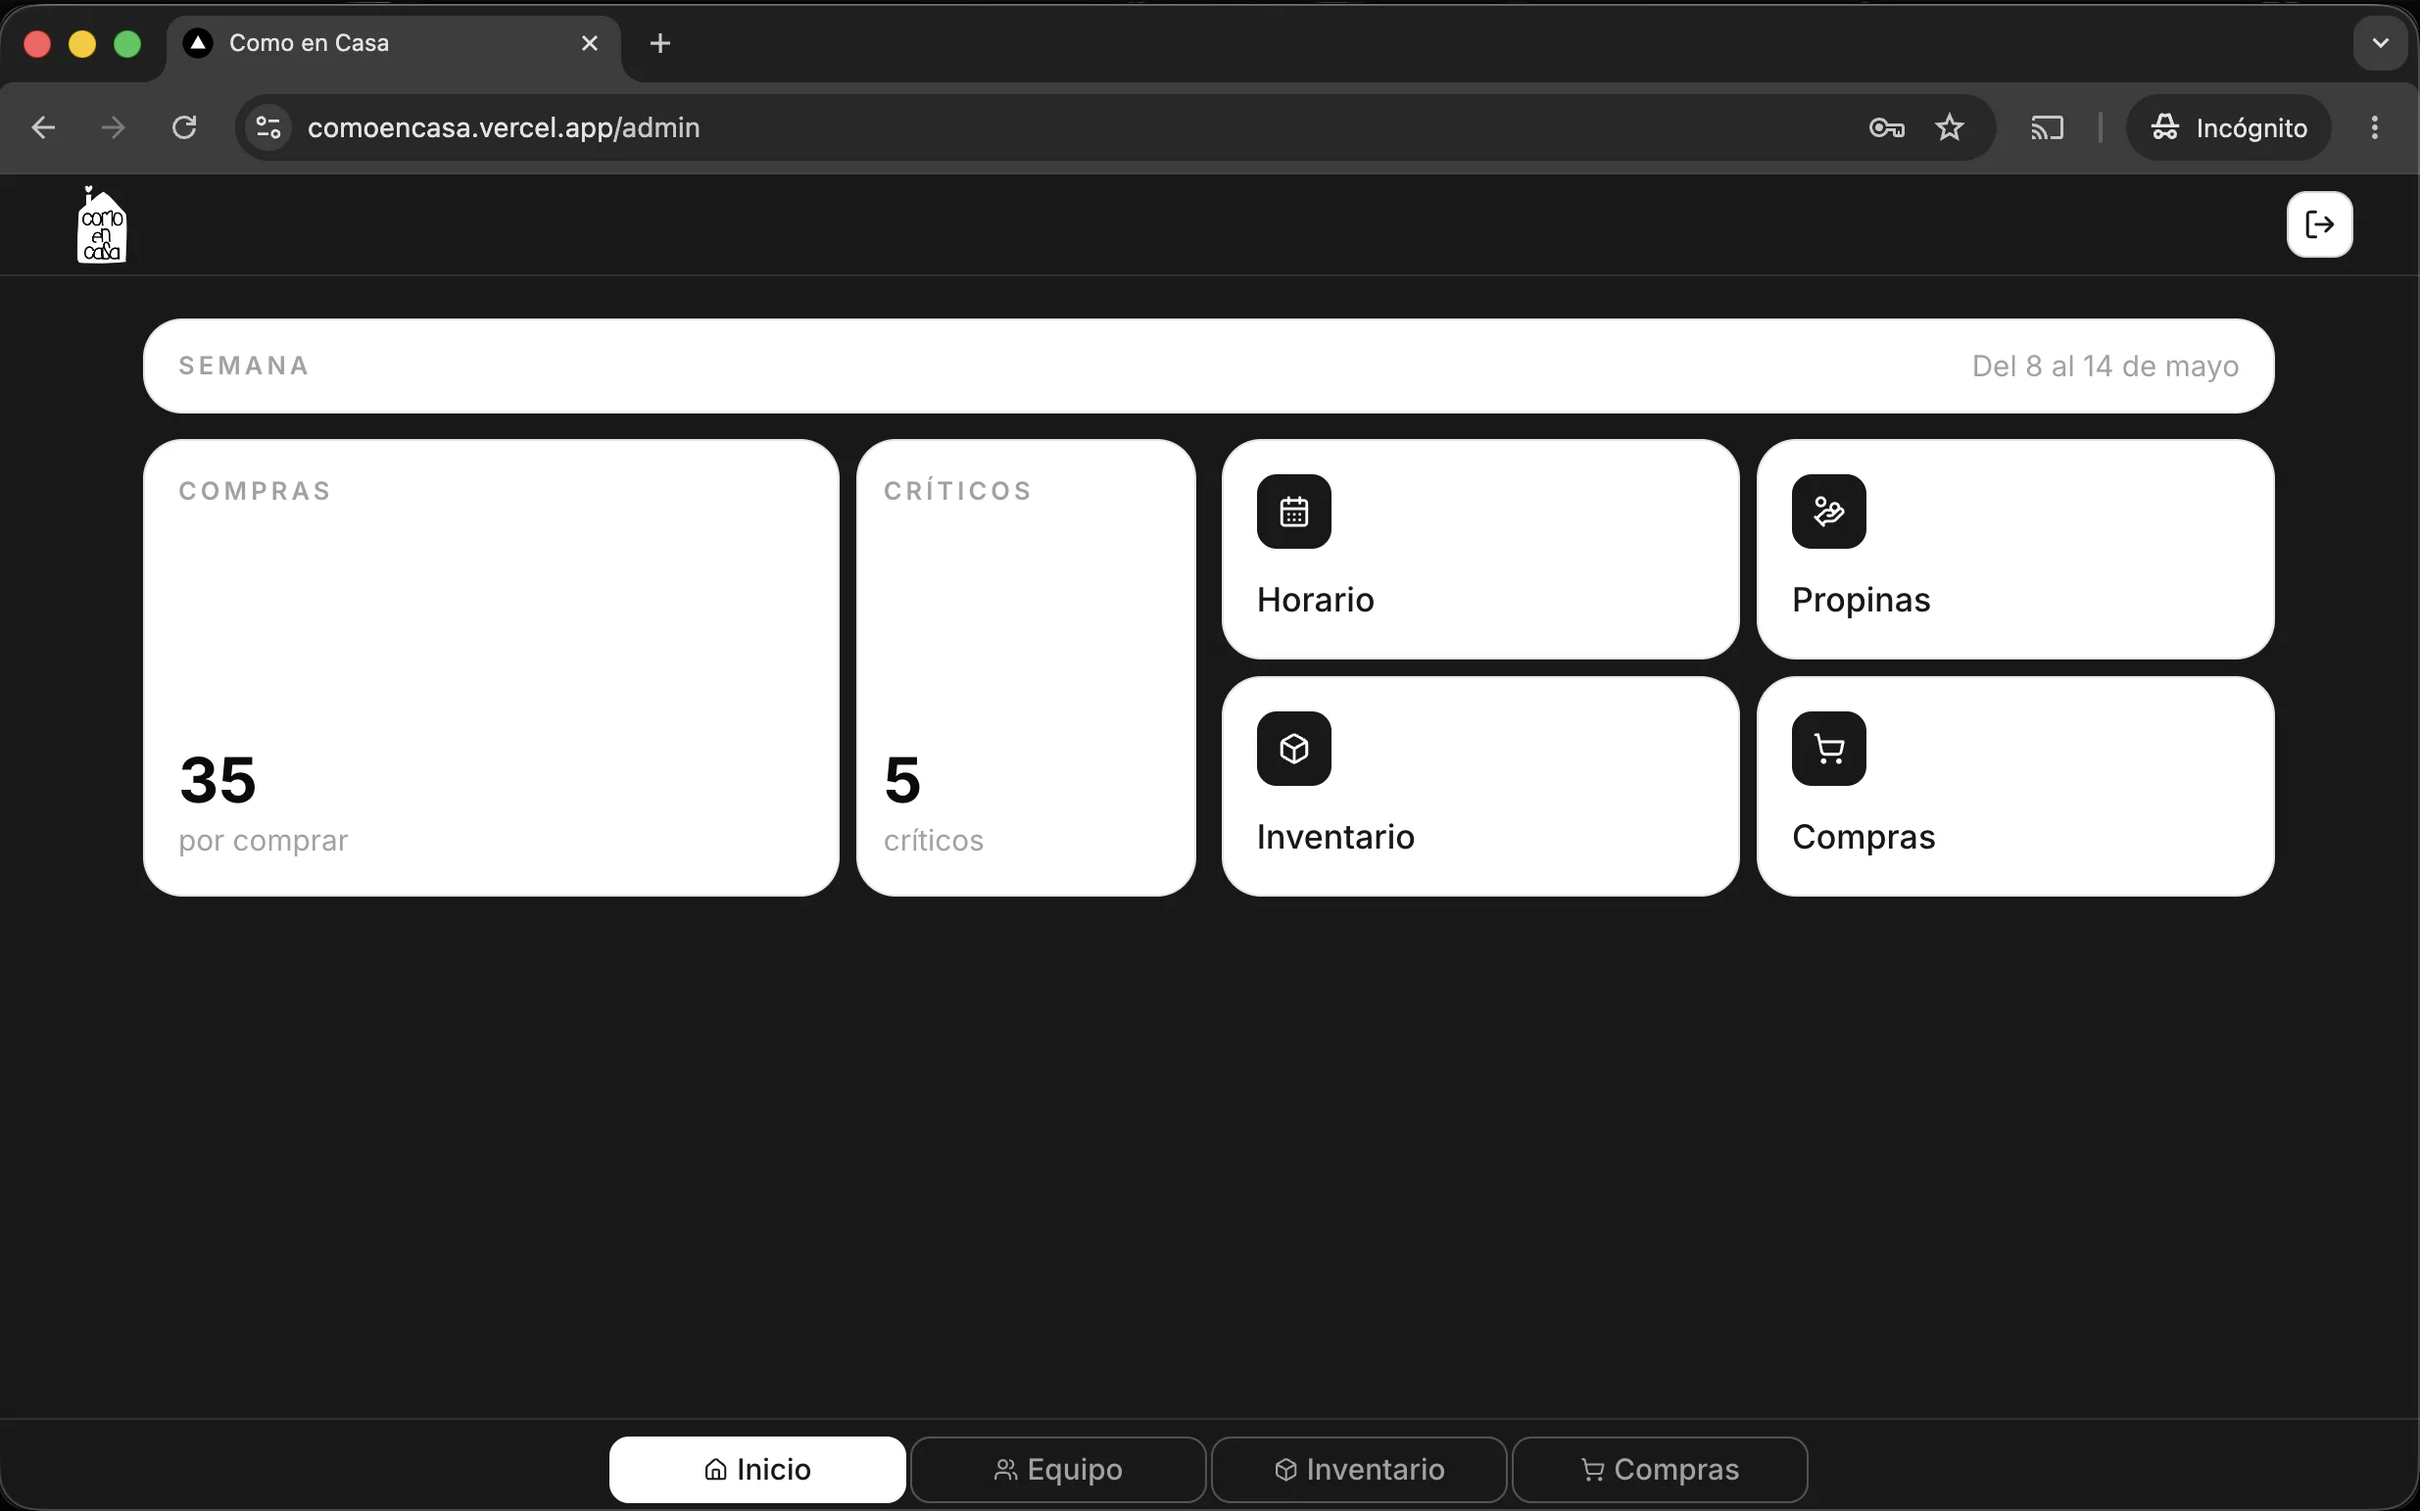
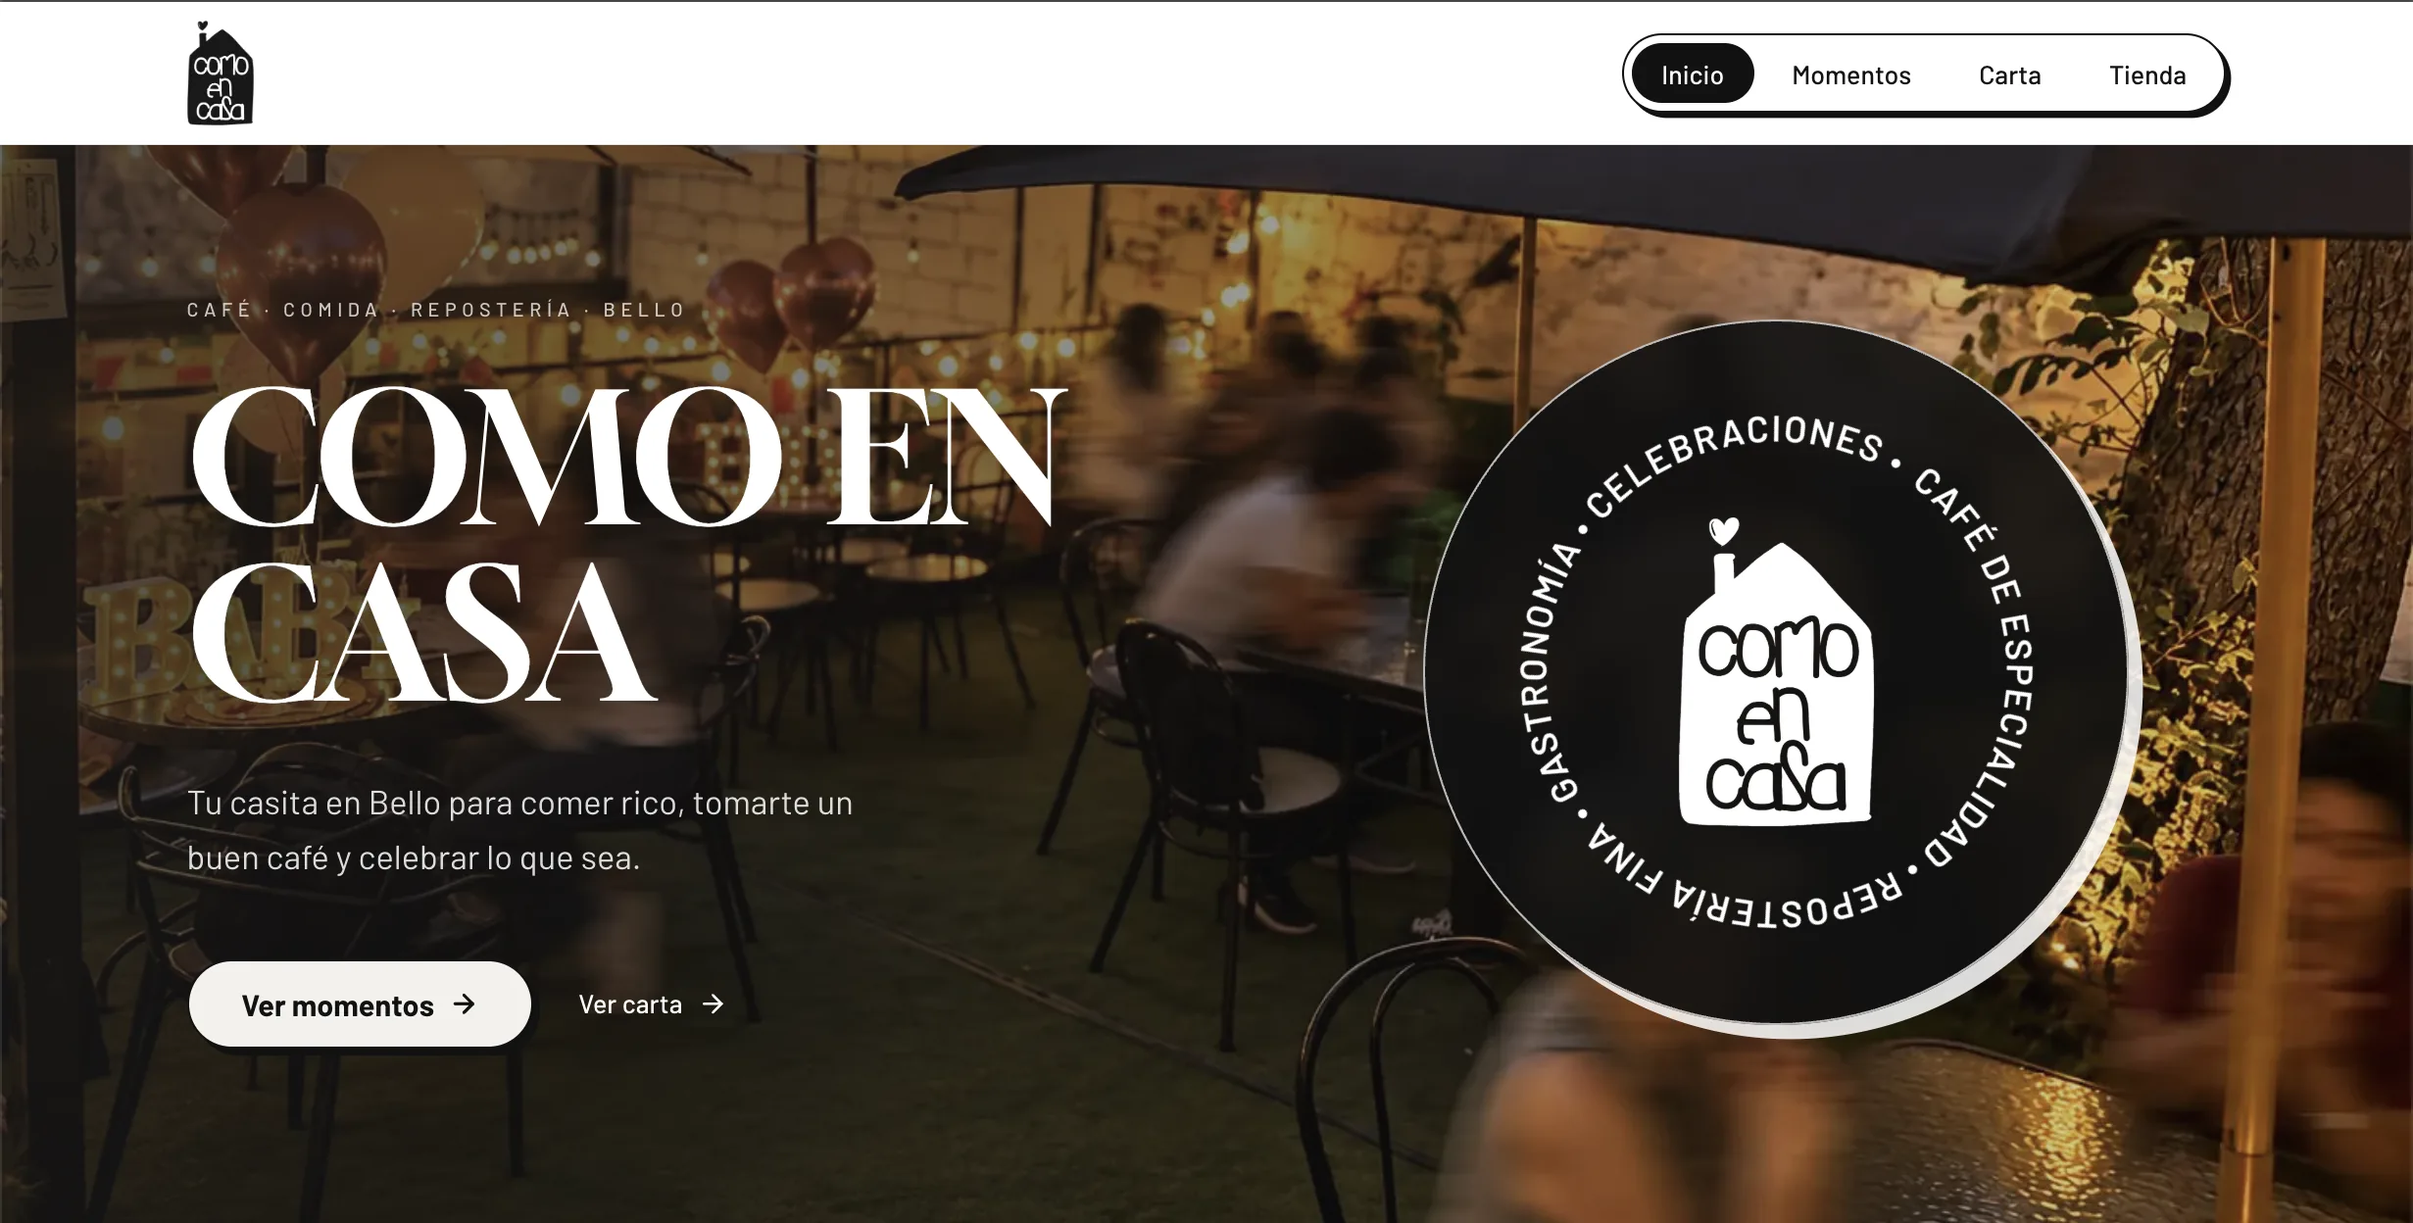
feat: update Como en Casa case study with public site, bookings and new cover
Claude-Session: https://claude.ai/code/session_01JCaro6UveNjqaA72npAWJw

diff --git a/src/data/projects.js b/src/data/projects.js
@@ -115,59 +115,59 @@ export const projects = [
   },
   {
     id: 3,
-    title: "Como en Casa Admin",
-    description: "A mobile-first internal operations dashboard for a café, built to manage team schedules, weekly tip distribution, inventory levels and purchase planning in one simple admin workspace.",
+    title: "Como en Casa",
+    description: "A full-stack platform for a family café and restaurant in Colombia: a public website with digital menu and celebration bookings, connected to a mobile-first internal admin for team, schedules, tips, inventory, purchases and reservations — all on one domain.",
     link: "https://comoencasa.vercel.app/",
     image: "/projects/como-en-casa.webp",
     drawer: {
-      subtitle: "Internal operations dashboard for café management",
+      subtitle: "Public website, celebration bookings and internal operations — one product, one domain",
       meta: "Solo project · Full-stack · Product design",
       snapshot: {
         role: "Solo developer — product, UX, database, implementation, deployment",
-        focus: "Operations workflow · Inventory logic · Mobile admin UX",
-        stack: "Next.js · TypeScript · Tailwind CSS · Supabase · PostgreSQL",
+        focus: "Public booking flow · Operations workflow · Mobile admin UX",
+        stack: "Next.js 16 · TypeScript · Tailwind CSS 4 · Supabase · PostgreSQL",
       },
-      challenge: "The café was managing key operational workflows manually: weekly tips were calculated from paper notes, inventory was checked by memory, purchases were planned reactively and team information was scattered. The challenge was turning messy daily operations into a clear internal tool simple enough for non-technical users.",
-      solution: "Como en Casa Admin centralizes the café's core workflows in one mobile-first dashboard: team management, weekly schedules, tip distribution, inventory tracking and purchase planning. The product is designed for fast daily use: open the app, update what changed, see what needs attention, close it.",
-      flow: ["Login", "Dashboard", "Team", "Weekly schedule", "Tips", "Inventory", "Purchases"],
-      flowNote: "Core café workflow — from daily operations to weekly payouts",
+      challenge: "The business had two disconnected problems. Customers had no clear place to see the menu, discover celebration packages or book one — everything happened in scattered WhatsApp chats. Internally, weekly tips were calculated from paper notes, inventory was checked by memory and purchases were planned reactively. The challenge was solving both without adding tools the team would not use, and without rebuilding what the existing POS (Fudo) already handles.",
+      solution: "One Next.js app split into two route groups: a public site and a role-protected admin. The public side shows the business, a searchable digital menu and bookable celebration packages (\"Momentos\"). Bookings are saved to Supabase and then handed off to WhatsApp with every detail pre-filled — because that is where the sale actually closes. The admin side gives the team a mobile-first workspace for schedules, tips, inventory, purchases and incoming reservations.",
+      flow: ["Home", "Menu", "Momentos", "Booking form", "WhatsApp hand-off", "Admin reservations", "Team · Tips · Inventory"],
+      flowNote: "From a customer discovering the café to the team operating it — one system",
       architecture: [
-        { label: "Frontend", items: ["Next.js", "React", "TypeScript", "Tailwind CSS"] },
-        { label: "Auth/Data", items: ["Supabase", "Environment-based config", "Typed queries"] },
-        { label: "Database", items: ["PostgreSQL", "Employees", "Inventory", "Tip weeks", "Shopping items"] },
-        { label: "Operations", items: ["Weekly workdays", "Tip totals", "Stock vs ideal quantity", "Purchase needs"] },
-        { label: "UX", items: ["Mobile-first layout", "Compact cards", "Bottom navigation", "Readable forms"] },
-        { label: "Deploy", items: ["Vercel", "GitHub", "Production build"] },
+        { label: "Frontend", items: ["Next.js 16 App Router", "React 19", "TypeScript", "Tailwind CSS 4", "Route groups (public) / (admin)"] },
+        { label: "Auth", items: ["Supabase Auth", "@supabase/ssr", "Proxy-level route protection", "Roles from profiles table"] },
+        { label: "Database", items: ["PostgreSQL", "Row Level Security", "Reservations", "Celebration packages", "Tip weeks", "Inventory"] },
+        { label: "Storage", items: ["Private Supabase buckets", "Client-side image compression", "Card photos · Payment proofs"] },
+        { label: "Operations", items: ["Weekly workdays", "Tip distribution", "Stock vs ideal quantity", "Purchase needs", "Colombia timezone"] },
+        { label: "Deploy", items: ["Vercel", "Single domain", "Open Graph previews", "Demo mode"] },
       ],
       decisions: [
-        { title: "Mobile-first admin over desktop-first dashboard", text: "The café team needs to update information quickly from a phone. The interface prioritizes compact cards, readable inputs and one-thumb navigation instead of dense desktop tables." },
-        { title: "Actual vs ideal inventory model", text: "Inventory is tracked through current quantity and ideal quantity. This keeps the logic simple: if current stock is below the ideal, the product becomes a purchase need." },
-        { title: "Weekly tip model", text: "Tips are organized by week, with daily tip totals and employee workdays. This matches the real business process and makes payouts easier to audit than manual paper calculations." },
-        { title: "Supabase-backed data over static local state", text: "Employees and inventory are stored in Supabase so the system can persist real operational data and evolve beyond a front-end-only prototype." },
-        { title: "Minimal black-and-white UI system", text: "The visual system is intentionally simple: strong contrast, white cards, black borders and compact typography. The product is built for clarity under daily operational pressure." },
+        { title: "One app, two route groups", text: "The public site and the admin live in the same Next.js project, separated with (public) and (admin) route groups. They share the database, types and deploy, but keep layouts, styles and access rules independent. The old admin subdomain now redirects to the single public domain." },
+        { title: "Security at the database, not only the UI", text: "Row Level Security lets anonymous visitors insert a reservation but never read one; only admins can select or update. Uploaded photos go to private buckets, never public URLs. The proxy protects /admin, /empleado and /demo, and resolves the role from the profiles table instead of trusting user metadata." },
+        { title: "WhatsApp as the closing channel", text: "The booking form saves the reservation, then opens WhatsApp with a pre-filled message: package, date, portions, card text and a link to the uploaded photo. The staff closes the sale without opening the admin, and only receives messages from customers who actually hit send." },
+        { title: "Business-timezone dates", text: "The team operates in Colombia, but the app may be opened from anywhere. Weeks, schedules and tip periods are calculated in America/Bogota instead of the device timezone, which fixed real week-navigation bugs." },
+        { title: "Complement the POS, don't replace it", text: "Sales, orders and cash stay in Fudo. The admin only covers what the POS doesn't: tips, workdays, inventory thresholds, purchase planning and celebration bookings." },
       ],
       ux: [
-        { title: "Dashboard as operations summary", text: "The first screen surfaces what matters today: key metrics, low inventory and quick access to the most used admin areas." },
-        { title: "Inventory built for fast updates", text: "Inputs are designed around the question \"how much is there right now?\" instead of forcing the user through a complex stock management flow." },
-        { title: "Purchases generated from stock needs", text: "Purchase planning is connected to inventory status, so the user can quickly see what needs to be bought without checking every product manually." },
-        { title: "Team and schedule in one flow", text: "Employee information and weekly workdays live together, because tip distribution depends directly on who worked during the week." },
+        { title: "Searchable digital menu", text: "The menu is split into Eat / Drink with sticky category navigation and a live search, styled with the same typography as the printed menu so the brand stays consistent across print and web." },
+        { title: "Booking form built for phones", text: "Customers pick a package variant, date, time and portions, add a card message and upload a photo. Photos are resized in the browser (max 1600 px, JPEG 85%) so a 5 MB phone picture uploads as ~300 KB over mobile data." },
+        { title: "Admin designed for daily use", text: "Compact cards, small controls and bottom navigation. Workdays are registered with discreet circular buttons, and daily tip amounts are editable with real-time recalculation." },
+        { title: "Public demo without real data", text: "A demo mode reuses the admin UI with fictional data, so the product can be shown to anyone without exposing or modifying real operations." },
       ],
       tradeoffs: [
-        { title: "Simple inventory logic over complex stock movements", text: "The app tracks current and ideal quantities instead of every historical stock movement. This makes the MVP faster and easier to use, while still solving the main operational pain." },
-        { title: "Manual purchase confirmation over automation", text: "The system surfaces purchase needs, but does not auto-create orders. This keeps control in the hands of the café team and avoids premature automation." },
-        { title: "Supabase direct integration over custom API layer", text: "For the MVP, direct typed Supabase queries reduce backend complexity while still allowing persistent data, structured tables and future scalability." },
-        { title: "Compact UI over decorative interface", text: "The interface avoids visual noise because the product is used for operations, not browsing. Density and clarity matter more than visual effects here." },
+        { title: "WhatsApp hand-off over online payments", text: "The MVP does not process payments. Customers can attach a payment proof, and the conversation closes on WhatsApp. Online payments (Wompi) are planned once the booking flow proves itself." },
+        { title: "Simple inventory logic over stock movements", text: "The app tracks current and ideal quantities instead of every stock movement. It solves the main pain — knowing what to buy — with far less input from the team." },
+        { title: "Package content in code, registry in the database", text: "Package copy, prices and photos live in a typed TypeScript file, while the database only stores the package registry and order. Fast to iterate for now; a CMS-like admin editor can come later." },
+        { title: "No POS integration in the MVP", text: "Weekly sales totals are entered manually instead of pulled from Fudo's API. Less automation, but zero dependency on a third-party integration while the product is still changing." },
       ],
       proof: [
-        "Translates a real café workflow into a working internal admin product",
-        "Designs operational logic around actual business rules: tips, schedules, inventory and purchases",
-        "Builds mobile-first admin UI for non-technical daily users",
-        "Connects frontend screens to Supabase-backed persistent data",
-        "Owns product thinking from messy manual process to structured software",
+        "Ships a real product used by a real business — customers book, the team operates",
+        "Connects a public-facing site and an internal tool in one coherent architecture",
+        "Applies security at the database level: RLS, private storage, server-side role checks",
+        "Designs around how the business actually sells (WhatsApp) instead of forcing a new channel",
+        "Owns the full loop: brand, UX, data model, implementation, deploy and iteration",
       ],
-      stack: ["Next.js", "React", "TypeScript", "Tailwind CSS", "Supabase", "PostgreSQL", "Vercel", "Git", "GitHub"],
-      state: "Deployed MVP with dashboard, team management, weekly schedule, tip distribution, inventory tracking, purchase planning, Supabase-backed employees and inventory, responsive layout across desktop and mobile.",
-      shows: "Full-stack product thinking applied to a real small-business operations problem: workflow mapping, data modeling, mobile-first admin UX, Supabase integration and deployment.",
+      stack: ["Next.js", "React", "TypeScript", "Tailwind CSS", "Supabase", "PostgreSQL", "Row Level Security", "Vercel", "Git", "GitHub"],
+      state: "Live on a single domain: public home, digital menu with search, celebration packages with photo carousels, booking form with photo upload and WhatsApp hand-off, admin reservations panel, team workdays and schedules, tip distribution with history, inventory, purchases, role-based access and demo mode. Online store is in progress.",
+      shows: "Full-stack product thinking applied to a real small business end to end: from how a customer discovers and books, to how the team runs the week — with security, timezone and mobile UX handled as product decisions, not afterthoughts.",
       url: "https://comoencasa.vercel.app/",
     },
   },
